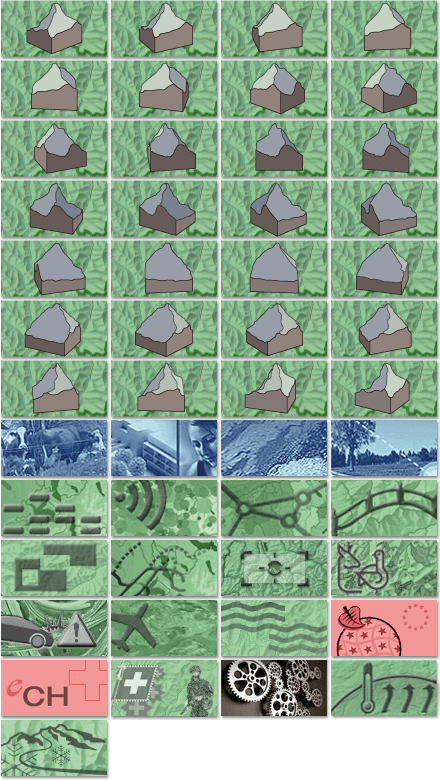
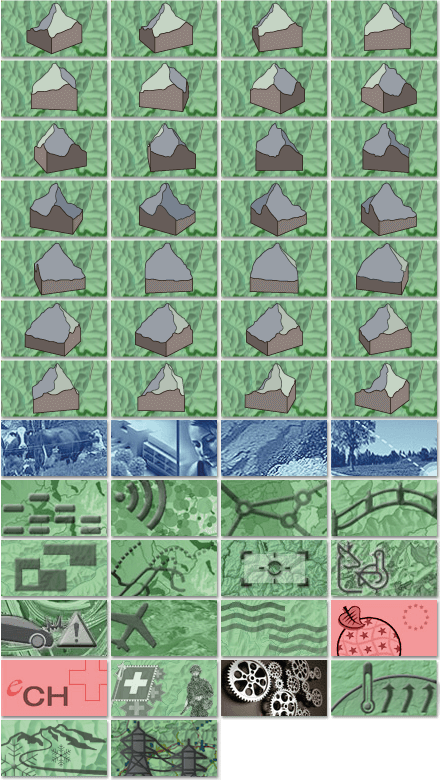
Add image for new topic energie

Changed region(s): [[0.2364, 0.9231, 0.5023, 1.0]]

diff --git a/src/components/topic/style/topic.less b/src/components/topic/style/topic.less
@@ -88,8 +88,12 @@
     background-position: -330px -660px;
   }
 
-  .ga-topics-sprite-schneesport  {
+  .ga-topics-sprite-schneesport {
     background-position: 0 -720px;
+  }
+
+  .ga-topics-sprite-energie {
+    background-position: -110px -720px;
   }
 
   .ga-topics-sprite-dev {
